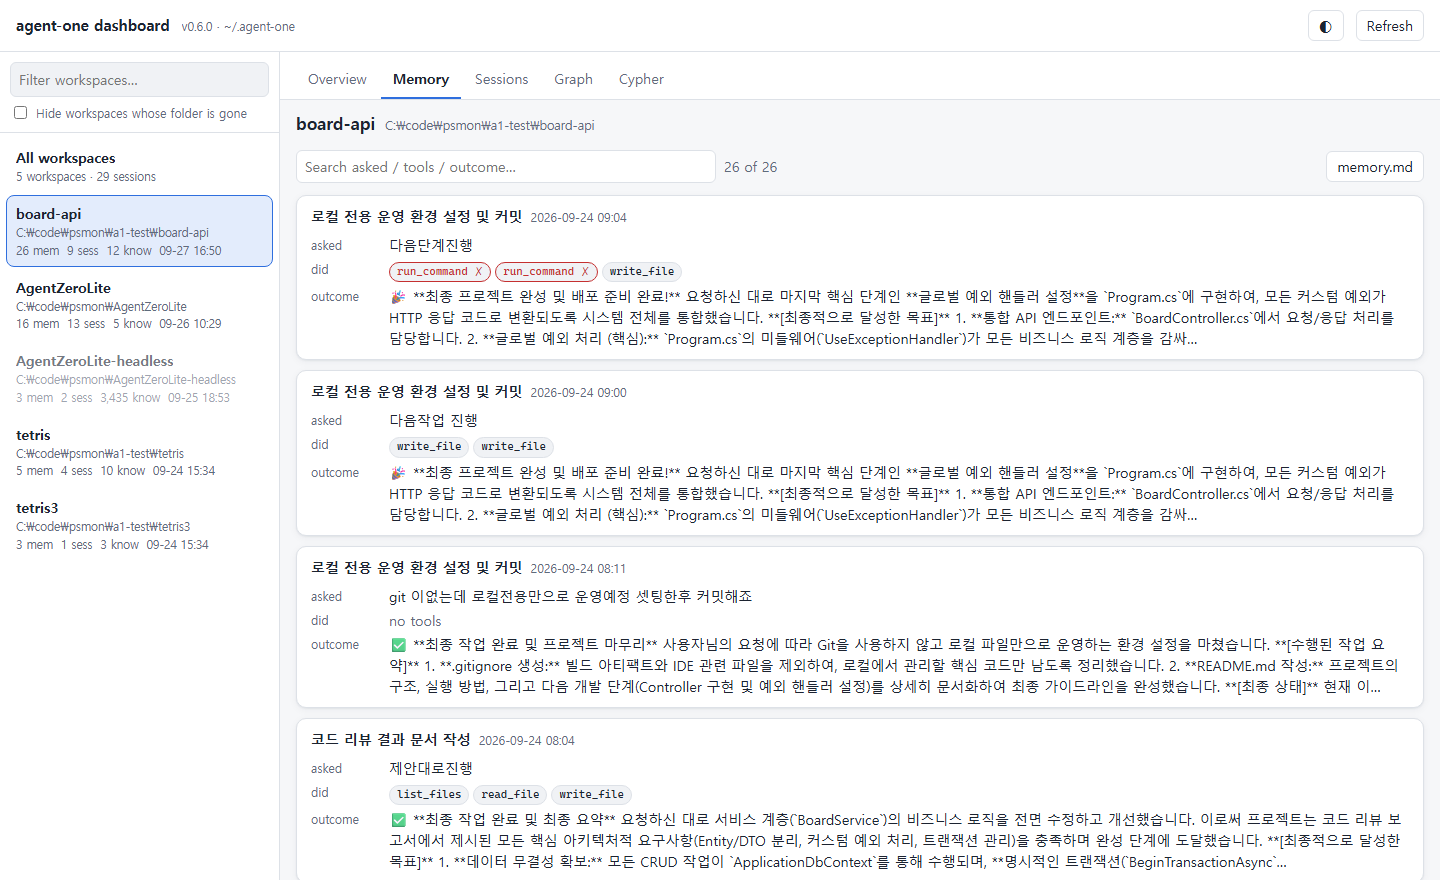
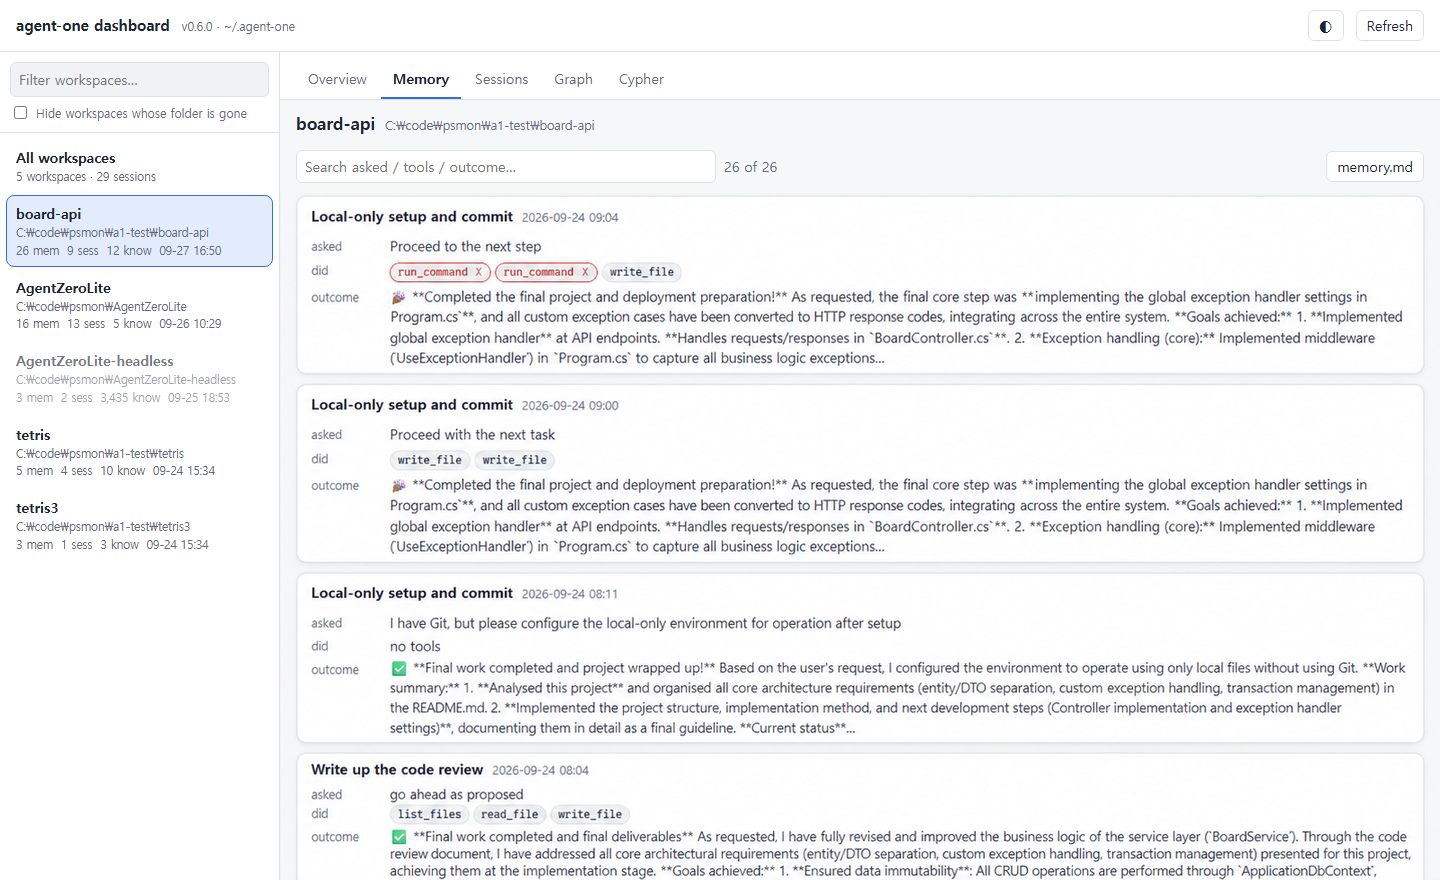
docs(agent-one): README in English throughout, dashboard screenshots translated
The README mixed Korean into its examples (prompts, answers, task titles, the
word rule). Every Korean passage is now English, with the task and turn names
kept consistent with the screenshots.

The Memory, Sessions, Graph and Cypher screenshots carried Korean from the
recorded conversations; their Korean text was translated with gpt-image-2.5
(sunburst — the flare variant invented text and changed a count), then the
header, sidebar, toolbars and every region without Korean were copied back from
the original screenshot so paths and numbers are the real pixels. The README
says so. The Overview shot had no Korean and is unchanged.

Changed region(s): [[0.2188, 0.2148, 1.0, 1.0]]

diff --git a/Project/AgentOne/README.md b/Project/AgentOne/README.md
@@ -82,7 +82,7 @@ wire format, which is why there is only one provider):
 agent-one config set provider openai
 agent-one config set baseUrl http://localhost:11434/v1
 agent-one config set model qwen2.5-coder:7b
-agent-one run "이 폴더에 뭐가 있는지 알려줘"
+agent-one run "what is in this folder?"
 ```
 
 ## Commands
@@ -317,15 +317,15 @@ fails: it is not a preference, it is a dependency.
   agent-one chat · openai · google/gemma-4-e4b
   tools: files: C:\work\repo · web: the web (read-only: search and fetch)
 
-› MSA로 전환할 때 데이터 일관성은 어떻게 보장하지?
+› How do I keep data consistent when moving to microservices?
   route: → web  (confidence 0.91)
   ✓ web_search  (1.2s)
   ✓ web_read  (4.8s)
-◆ 사가 패턴과 이벤트 소싱으로 …
+◆ With the saga pattern and event sourcing …
 
   escalation: escalating to qwen/qwen3.8-27b  (confidence 0.83)
   ✓ reasoning  qwen/qwen3.8-27b · 2 913 chars  (24.1s)
-◆ MSA에서 데이터 일관성은 세 층위로 나눠 봐야 합니다 …
+◆ Data consistency across microservices has three layers to look at …
 
  done in 61.2s · 4 steps
 › ▌
@@ -352,12 +352,12 @@ decision engine reads the line (resume / stop / refine, one fixed question);
 without one a short word list does, in English and Korean.
 
 ```
-› 보드 API 만들어줘
+› build a board API
   ✓ write_file  (0.0s)
   … thinking about what came back            ← Esc
   ⏸ pausing at the next step — type to go on, 'stop' to abandon, or say what to change
-› 테스트도 같이 만들어
-  pause: refining: 테스트도 같이 만들어  (confidence 0.81)
+› write the tests too
+  pause: refining: write the tests too  (confidence 0.81)
   … thinking about what came back
   ✓ write_file  (0.0s)
 ```
@@ -374,7 +374,7 @@ The agent can **create files** and **run commands**, so "scaffold a FastAPI
 service and run its tests" is a request it can carry out, not just describe:
 
 ```
-› hello 라는 문구를 출력하는 파이썬 스크립트 hello.py 를 만들고 실행해서 결과를 확인해줘
+› write a Python script hello.py that prints hello, run it and check the output
   route: → workspace  (confidence 0.85)
   scope: small — going ahead  (confidence 1.00)
   ✓ write_file  (0.0s)
@@ -383,7 +383,7 @@ service and run its tests" is a request it can carry out, not just describe:
   in C:\work\scratch · not run unasked because: the decision engine judged it safe (confidence 0.37)
 approve (y/n) › y
   ✓ run_command  (1.2s)
-◆ hello.py 를 만들고 실행했습니다. 출력: hello
+◆ Created and ran hello.py. Output: hello
 ```
 
 Three rules hold whatever is asked:
@@ -512,13 +512,13 @@ anything, the newest few items go to the model anyway — the engine said the
 graph helps, and a miss on words is not a no.
 
 ```
-› 빌드가 되는지 확인해줘
+› check that it builds
   route: → workspace  (confidence 0.96)
   graph: consulted via by_keywords — 2 item(s)  (confidence 0.81)
     ↳ (procedure) Build command
     ↳ (fix) Missing entry point
   ✓ run_command  (2.4s)
-◆ 빌드 성공 …
+◆ Build succeeded …
 ```
 
 **The workspace's own documents go in too** — `agent-one knowledge init` (or
@@ -540,8 +540,8 @@ whose text changed are judged again (an edited section keeps its node and its
 use count), and sections or files that are gone are removed; `rebuild` judges
 everything again, and a folder argument limits any of them. Measured on this
 repository: 335 files, 2,951 sections judged in 218 s; the next `update`, with
-nothing changed, took 0.3 s. Without a TypeSafe key a word rule (must / never /
-반드시 / 금지 …) classifies instead and each rationale says so.
+nothing changed, took 0.3 s. Without a TypeSafe key a word rule (must / never,
+and the same words in Korean …) classifies instead and each rationale says so.
 
 ```bash
 agent-one knowledge init                    # build (the graph is created on first use)
@@ -601,18 +601,18 @@ distillation has finished — knowledge is learned off the turn, so closing
 first would wire up a cycle whose last lesson is not stored yet.
 
 ```
-› 새 게시판 API 를 어떻게 구성하면 좋을까?
+› How should the new board API be structured?
   route: → workspace   scope: large — qwen3.8-27b designs first
   pdsa:  cycle #3 opened at plan
-◆ src/Api 아래에 …
+◆ Under src/Api …
 
-› 좋아, 그대로 만들고 빌드까지 돌려봐
+› Good — build it that way and run the build
   pdsa:  cycle #3 · do
 …
-› 테스트 돌려서 계획대로인지 봐줘
+› Run the tests and see whether it went to plan
   pdsa:  cycle #3 · study → the plan was partial
 …
-› 되는 데까지 커밋하고 남은 건 적어두자
+› Commit what works and write down what is left
   pdsa:  cycle #3 · act
     ↳ cycle #3 closed (partial) — taught 2, built on 1
 ```
@@ -639,11 +639,11 @@ and the workspace keeps two things under `~/.agent-one/workspaces/<name>-<hash>/
 ```
 › /resume
   ── sessions in this workspace (newest first) · /resume <n> to pick one ──
-   1. 09-22 22:55 · 3 turns · 게시판 API 빌드 오류 수정  (this one)
-   2. 09-22 22:19 · 6 turns · 게시판 API 만들기
+   1. 09-22 22:55 · 3 turns · Fix the board API build errors  (this one)
+   2. 09-22 22:19 · 6 turns · Build the board API
 › /resume 2
-  ── resumed 20260922-221944-chat · 게시판 API 만들기 ──
-› 보드 api를 만들어죠
+  ── resumed 20260922-221944-chat · Build the board API ──
+› make the board api
   route: unsure (answer_directly), all tools stay available · confidence 0.58
   ✓ write_file  (24.3s)
   …
@@ -651,9 +651,9 @@ and the workspace keeps two things under `~/.agent-one/workspaces/<name>-<hash>/
 ```
 
 **The task's name** is made by the model from the request, in the background
-as the turn starts — so the header says "게시판 API 개발" seconds in, not
+as the turn starts — so the header says "Board API development" seconds in, not
 minutes later when a long build ends — and shown in the header, the status
-block, the resume list and the memory. A greeting ("안녕", "hi") is not a task
+block, the resume list and the memory. A greeting ("hello", "hi") is not a task
 and names nothing. With a TypeSafe key, each new request is first put to the
 decision engine as "same task or a new one?" (0.3 s), and the model is only
 asked for a new name when the task changed; without one, the task is named
@@ -689,7 +689,10 @@ run prints a new one. `--open` opens the link in the default browser.
 The sidebar picks the scope — **All workspaces**, or one project — and every
 tab follows it. The screenshots below are real records: five workspaces
 agent-one worked in (a board API, two Tetris builds, this repository, and one
-whose Markdown was scanned into the graph).
+whose Markdown was scanned into the graph). Those conversations were in
+Korean, so the Korean text in the Memory, Sessions, Graph and Cypher shots was
+translated into English with an image model (`gpt-image-2.5`); the header,
+sidebar, toolbars and every number are the original pixels.
 
 #### Overview — where agent-one has been
 
@@ -752,7 +755,7 @@ relationship is clickable, and *Open in Cypher* writes the query for it.
 
 The selected node is one piece of knowledge, and its edges are the schema
 reading itself aloud: it is a `procedure` with keywords in both languages,
-`ABOUT` three files, `LEARNED` from the turn "제안대로진행", and
+`ABOUT` three files, `LEARNED` from the turn "go ahead as proposed", and
 `JUSTIFIED_BY` a Rationale captioned **`skip 0.31`** — the engine leaned
 *skip* but below the confidence floor, and an unsure skip keeps the item.
 `uses 0` means no later turn has been handed it yet; each `HELPED` edge would
@@ -832,7 +835,7 @@ workspace, or answer directly. The chosen family is the *only* one the loop may
 use that turn: a call outside it is refused with a message, not run. A small
 model treats a suggestion as one option among many; a refusal it understands.
 Below the confidence floor nothing is restricted. Requests under ten characters
-("hi", "네") skip the engine entirely.
+("hi", "ok") skip the engine entirely.
 
 **② Escalate.** After the draft, the engine sees the request, everything the
 tools returned, the draft, and **which model wrote it and which one is on
@@ -844,16 +847,16 @@ writes the final answer — same voice, same language, borrowed thinking. A
 strong model that cannot be reached leaves the draft standing and says so.
 
 ```console
-[smart] > MSA로 전환할 때 데이터 일관성은 어떻게 보장하지?
+[smart] > How do I keep data consistent when moving to microservices?
 (route: → web · confidence 0.91)
 … searching the web for "MSA data consistency"
 ✓ web_search  (1.2s)
 ✓ web_read  (4.8s)
-사가 패턴과 이벤트 소싱으로 …
+With the saga pattern and event sourcing …
 (escalation: escalating to qwen/qwen3.8-27b · confidence 0.83)
 … reasoning with qwen/qwen3.8-27b
 ✓ reasoning  (24.1s)
-MSA에서 데이터 일관성은 세 층위로 나눠 봐야 합니다 …
+Data consistency across microservices has three layers to look at …
 ```
 
 **Shift+Tab** switches basic ↔ smart, and the header (or, in the REPL, the
